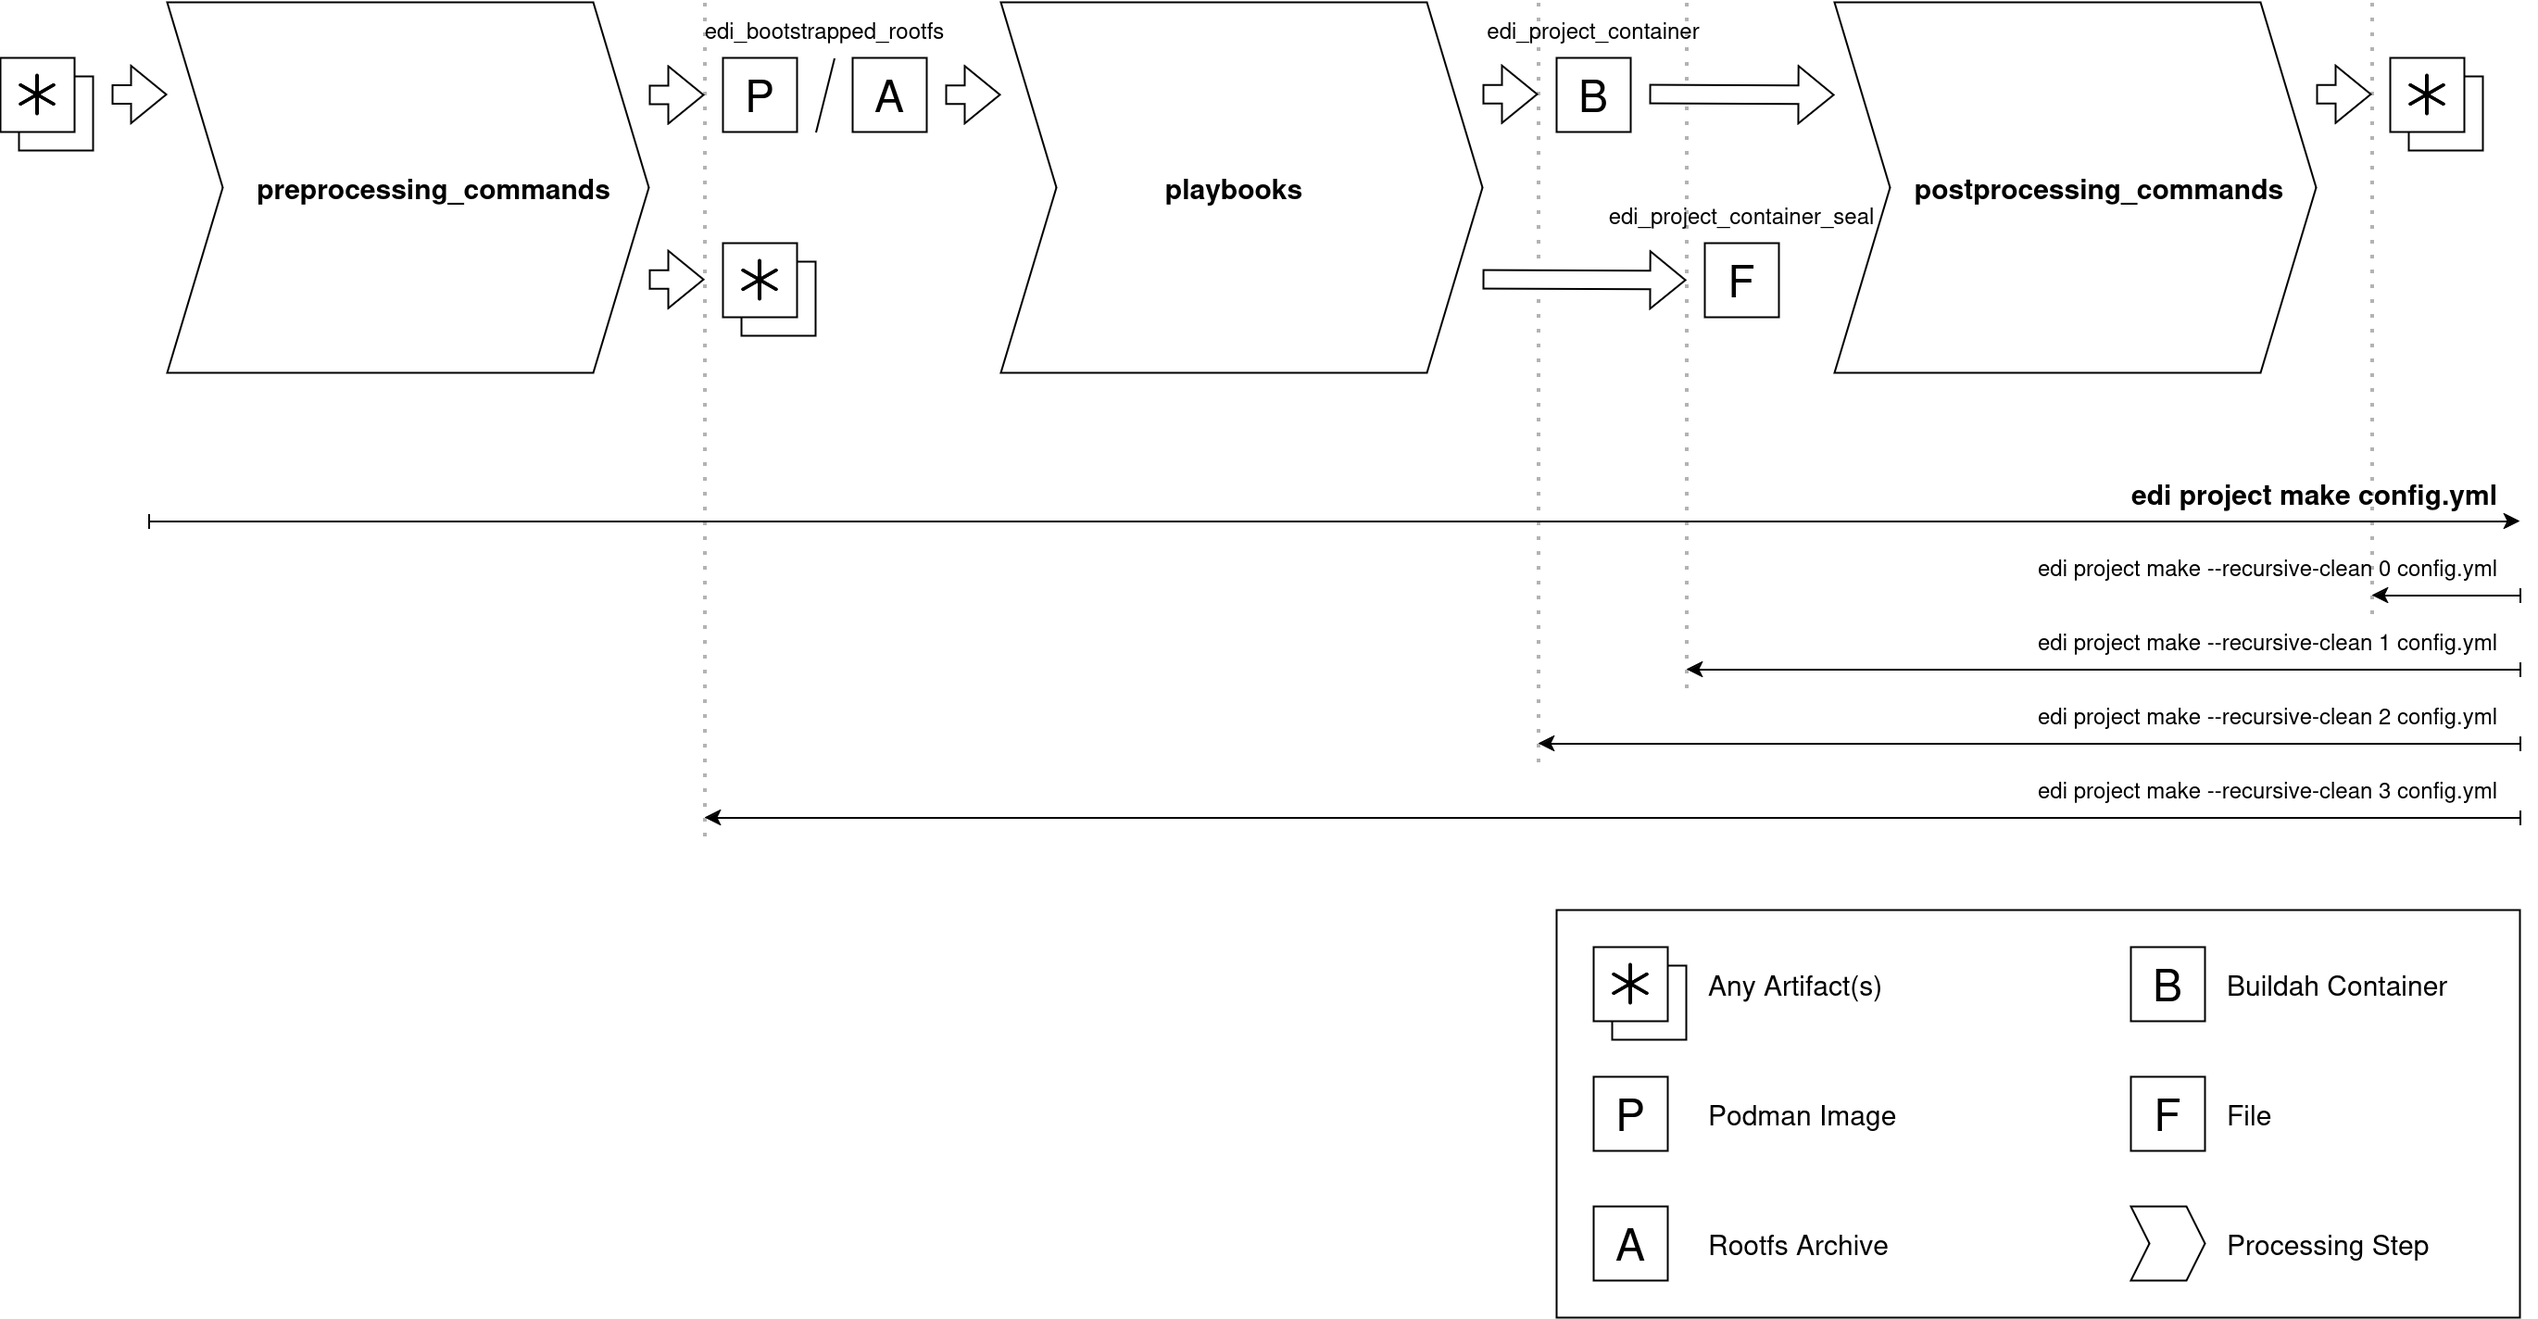
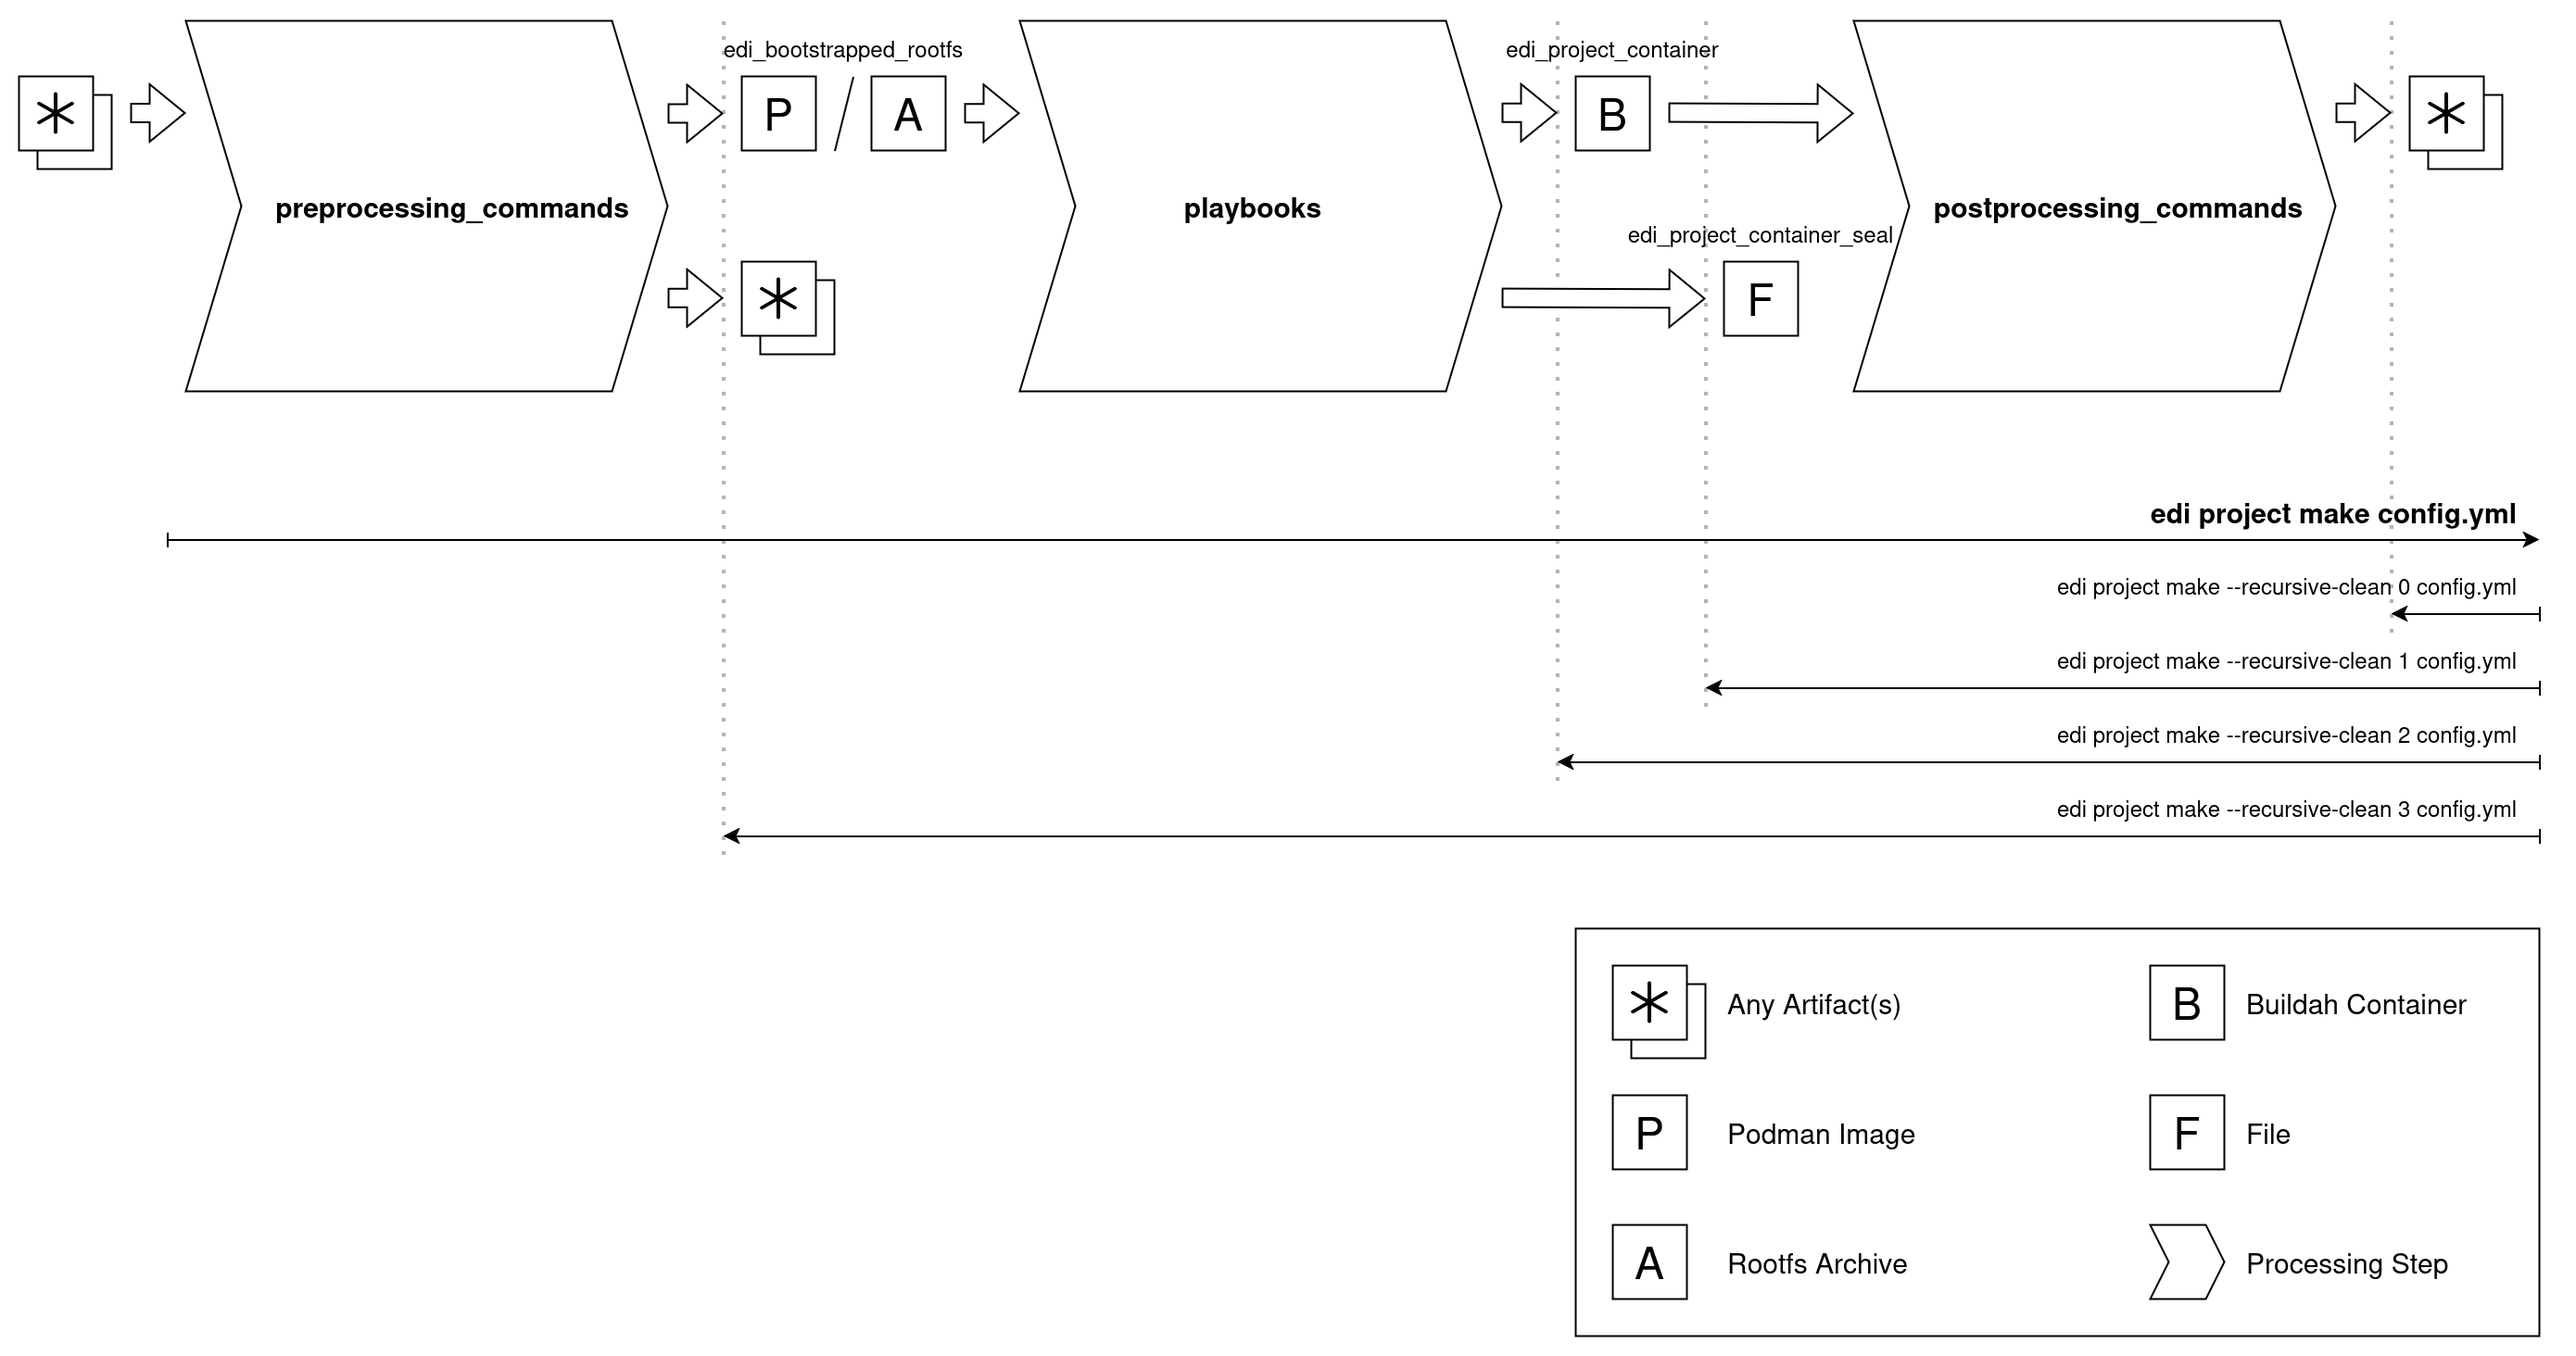
Fixed command, picture can now be enlarged.

diff --git a/_posts/2024-05-03-Rootless-Creation-of-Debian-OS-and-OCI-Images.md b/_posts/2024-05-03-Rootless-Creation-of-Debian-OS-and-OCI-Images.md
@@ -116,7 +116,7 @@ with Ansible roles and collections. In our configuration the collection
 3. The last processing step uses `postprocessing_commands` to turn the container root file system into whatever
 artifacts we need.
 
-![Workflow v2](/assets/images/blog/workflow-v2.png){:class="img-responsive"}
+[![Workflow v2](/assets/images/blog/workflow-v2.png){:class="img-responsive"}](/assets/images/blog/workflow-v2.png)
 
 # Modifications and Debugging
 
@@ -148,7 +148,7 @@ The `--recursive-clean 1` is especially helpful as it does not delete the Builda
 `edi -v project make pi4-gitops-v2.yml` will then not have to re-build and re-configure the entire container. Instead it
 will use the existing one. The assumption here is that the Ansible playbook is idempotent and can be re-applied to the same
 Buildah container. If this is not the case e.g. due to a modification, the container can also get erased using
-`edi -v project make --recursive-clean 1 pi4-gitops-v2.yml`.
+`edi -v project make --recursive-clean 2 pi4-gitops-v2.yml`.
 
 In case the playbook fails at a certain step, we can fix it and jump in again in the middle of the playbook:
 
